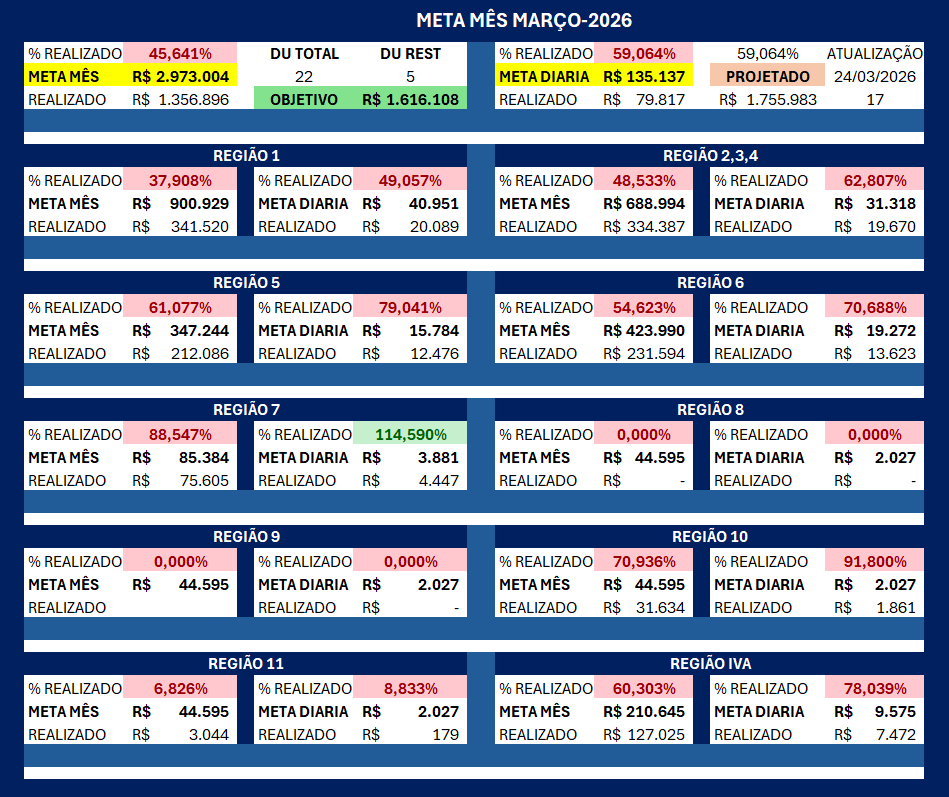
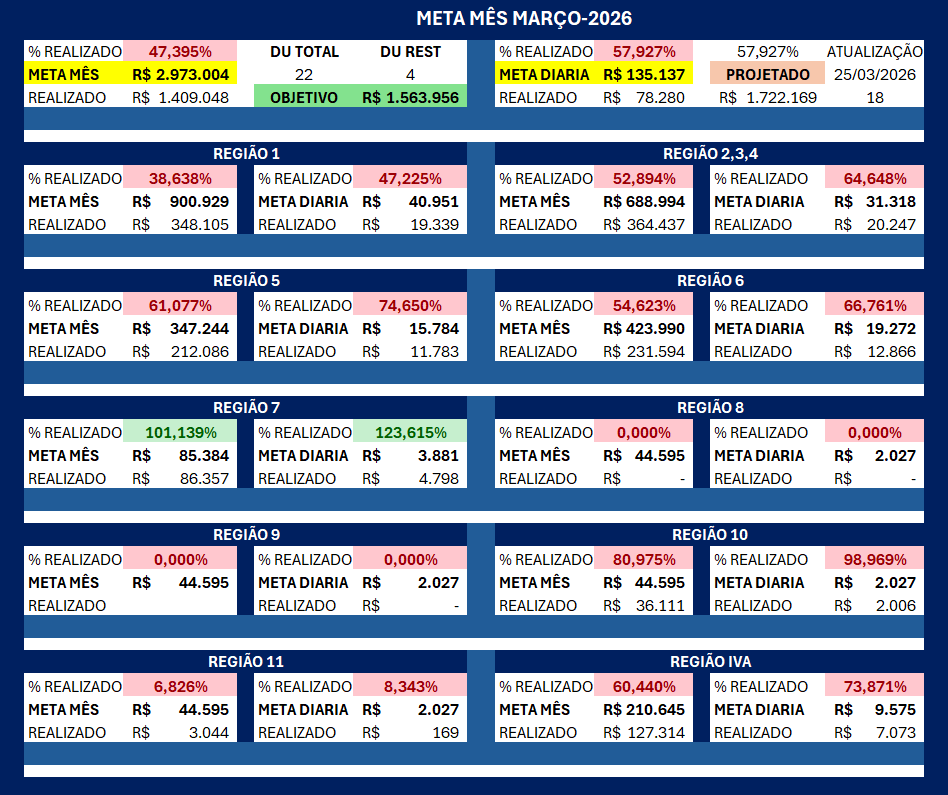
Att de Imagem

diff --git a/index.html b/index.html
@@ -31,7 +31,7 @@ html, body {
 
 <script>
 const imagens = [
-  "https://i.postimg.cc/MTMYqggY/painel.png",
+  "https://i.postimg.cc/xqrT5HgB/painel.png",
   "https://i.postimg.cc/bNprSyCX/Image-(1).jpg",
   "https://i.postimg.cc/qMS1YvN1/1.jpg",
   "https://i.postimg.cc/J79TYhHC/2.jpg",
